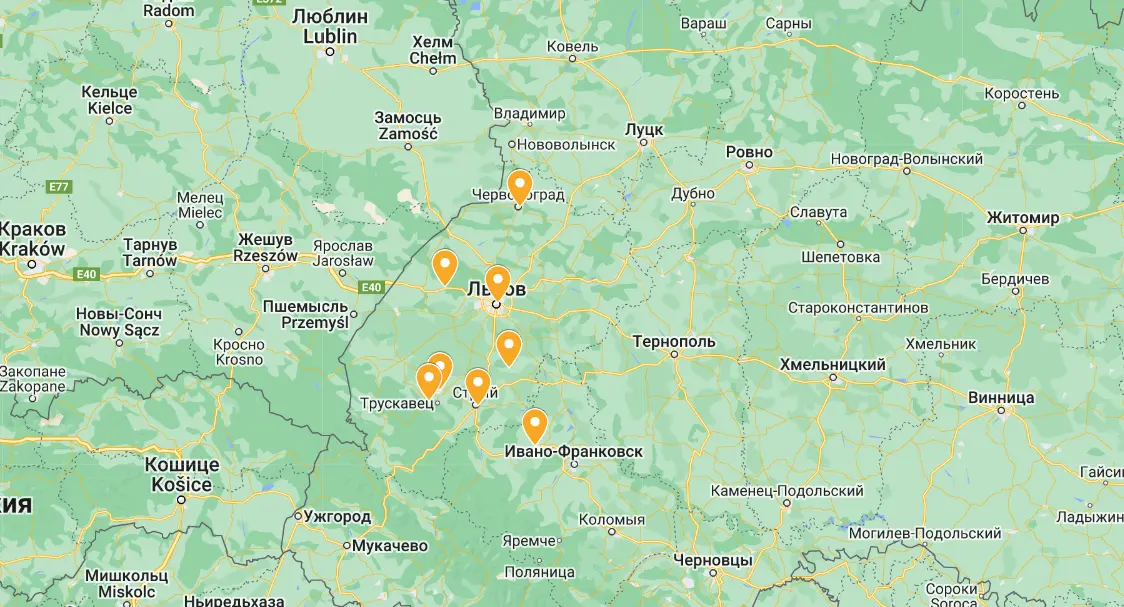
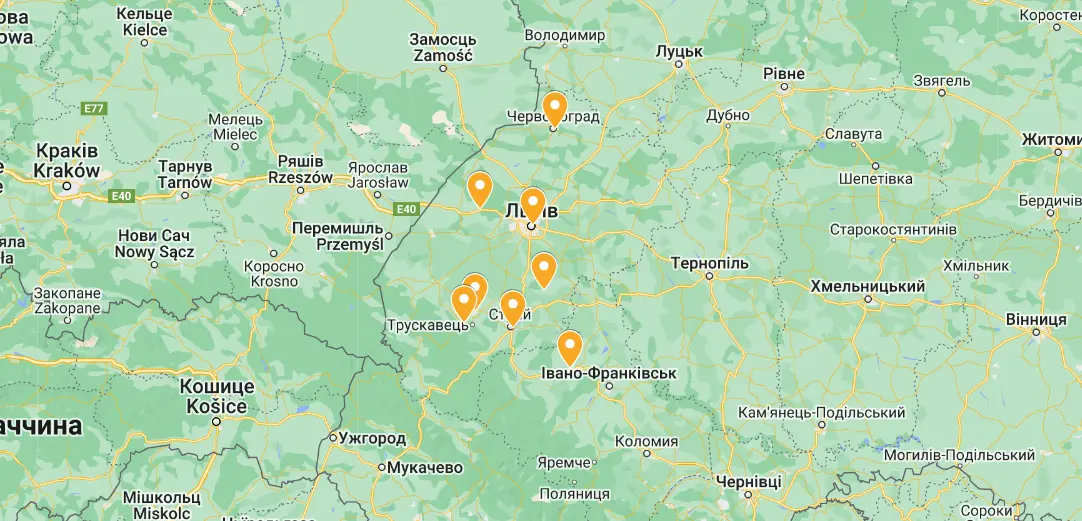
change photo for map section & delate photo for team section

diff --git a/index.html b/index.html
@@ -938,7 +938,7 @@
     
             </div>
             
-            <img data-aos="zoom-in" data-aos-once="true" src="./img/team/team__photo.webp" alt="Our Team" class="team__photo">
+            <!-- <img data-aos="zoom-in" data-aos-once="true" src="./img/team/team__photo.webp" alt="Our Team" class="team__photo"> -->
 
             <div class="team__row owl-carousel owl-theme owl-carousel-first"  data-aos="fade-up" data-aos-once="true">
                 <div class="team__row-member vitalik">

diff --git a/style/main.css b/style/main.css
@@ -1846,7 +1846,7 @@ input[type=number] {
       color: #F5A006;
       font-weight: 500; }
   .team__description-margin {
-    margin-bottom: 50px; }
+    margin-bottom: 80px; }
   .team__photo {
     margin-bottom: 70px;
     width: 100%; }

diff --git a/style/main.scss b/style/main.scss
@@ -1918,7 +1918,7 @@
 			}
 		}
 		&-margin {
-			margin-bottom: 50px;
+			margin-bottom: 80px;
 		}
 	}
 
